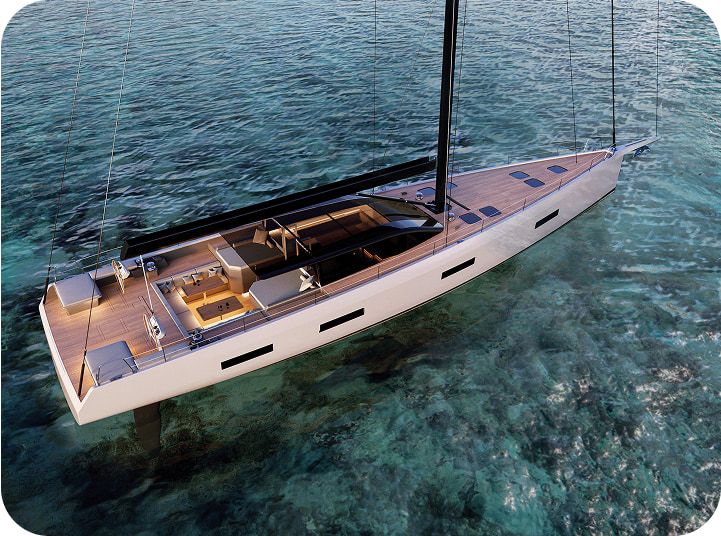
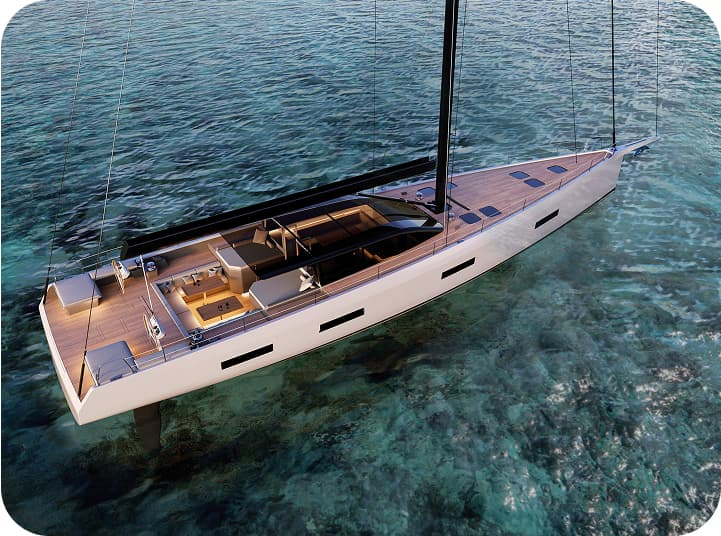
padding added under the section and photos optimized

diff --git a/src/js/mobile-menu.js b/src/js/mobile-menu.js
@@ -1,40 +1,33 @@
-// Находим элементы меню
 const mobileMenu = document.querySelector(".mobile-menu");
 const mobileMenuBtnBurger = document.querySelector(".mob-menu");
 const mobileMenuBtnClose = document.querySelector(".mob-menu-close");
 
-// Открытие по бургеру
 mobileMenuBtnBurger.addEventListener("click", () => {
   mobileMenu.classList.add("is-open-mobile-menu");
 });
 
-// Закрытие по крестику
 mobileMenuBtnClose.addEventListener("click", () => {
   mobileMenu.classList.remove("is-open-mobile-menu");
 });
 
-// Закрытие меню по клику на ссылку + плавный scroll
 const menuLinks = document.querySelectorAll(".mobile-menu-btn");
 
 menuLinks.forEach((link) => {
   const isModalTrigger = link.hasAttribute("data-modal-open");
 
-  // Если это НЕ Order Service (не открывает модалку)
   if (!isModalTrigger) {
     link.addEventListener("click", (e) => {
-      e.preventDefault(); // Остановим стандартную прокрутку
+      e.preventDefault();
 
-      const targetId = link.getAttribute("href").substring(1); // убираем #
+      const targetId = link.getAttribute("href").substring(1); 
       const targetElement = document.getElementById(targetId);
 
-      // Закрываем меню
       mobileMenu.classList.remove("is-open-mobile-menu");
 
-      // Плавно скроллим к нужной секции
       if (targetElement) {
         setTimeout(() => {
           targetElement.scrollIntoView({ behavior: "smooth" });
-        }, 300); // Даем анимации меню закрыться
+        }, 300);
       }
     });
   }

diff --git a/src/css/our-jachts.css b/src/css/our-jachts.css
@@ -6,6 +6,7 @@
 .our-yachts {
   display: flex;
   justify-content: center;
+  padding-bottom: 80px;
 }
 
 .our-yachts-list {
@@ -19,7 +20,7 @@
   font-size: 28px;
   line-height: 1;
   letter-spacing: -0.02em;
- 
+
   margin-bottom: 40px;
 }
 
@@ -107,10 +108,17 @@
   color: #040306;
 }
 
+.our-yachts .container {
+  display: flex;
+  flex-direction: column;
+  align-items: center;
+}
+
 .rent-yacht-button {
   display: inline-flex;
   justify-content: center;
   align-items: center;
+  text-align: center;
   border: 1px solid rgba(251, 251, 251, 0.35);
   border-radius: 15px;
   font-weight: 500;
@@ -130,17 +138,16 @@
   transform: scale(0.98);
 }
 
-.button-wrapper-our-yachts {
-  text-align: center;
-  margin-bottom: 80px;
-}
-
 @media screen and (min-width: 768px) {
   .our-yachts-item:nth-child(3) {
     display: none;
   }
   .our-yachts-item:nth-child(2) {
     display: block;
+  }
+
+  .our-yachts {
+    padding-bottom: 150px;
   }
   .our-yachts-item {
     flex-basis: calc((100% - 32px) / 2);
@@ -168,9 +175,7 @@
     font-size: 13px;
     line-height: 1.18;
   }
-  .button-wrapper-our-yachts {
-    margin-bottom: 150px;
-  }
+
   .rent-yacht-button {
     font-size: 18px;
     min-width: 179px;

diff --git a/src/css/mobile-menu.css b/src/css/mobile-menu.css
@@ -45,11 +45,11 @@
   color: #1b414b;
   padding-block: 12px;
 }
-.mob-menu-close{
-    padding: 0;
-    background-color: transparent;
-    border: none;
-    display: inline-flex;
+.mob-menu-close {
+  padding: 0;
+  background-color: transparent;
+  border: none;
+  display: inline-flex;
 }
 .mob-menu-icon-close {
   fill: #055545;
@@ -103,9 +103,6 @@
 .icon-svg-mob-menu:hover {
   fill: rgba(251, 251, 251, 0.8);
 }
-
-
-
 
 @media only screen and (min-width: 768px) {
   .mobile-menu {

diff --git a/src/partials/our-yachts.html b/src/partials/our-yachts.html
@@ -169,8 +169,6 @@
         </div>
       </li>
     </ul>
-    <div class="button-wrapper-our-yachts">
-      <a href="#form" class="rent-yacht-button">Yacht rental</a>
-    </div>
+    <a href="#form" class="rent-yacht-button">Yacht rental</a>
   </div>
 </section>

diff --git a/src/main.js b/src/main.js
@@ -1,4 +1,3 @@
-
 import './js/backdrop.js'
+import './js/mobile-menu.js'
 import './js/reviews.js'
-
